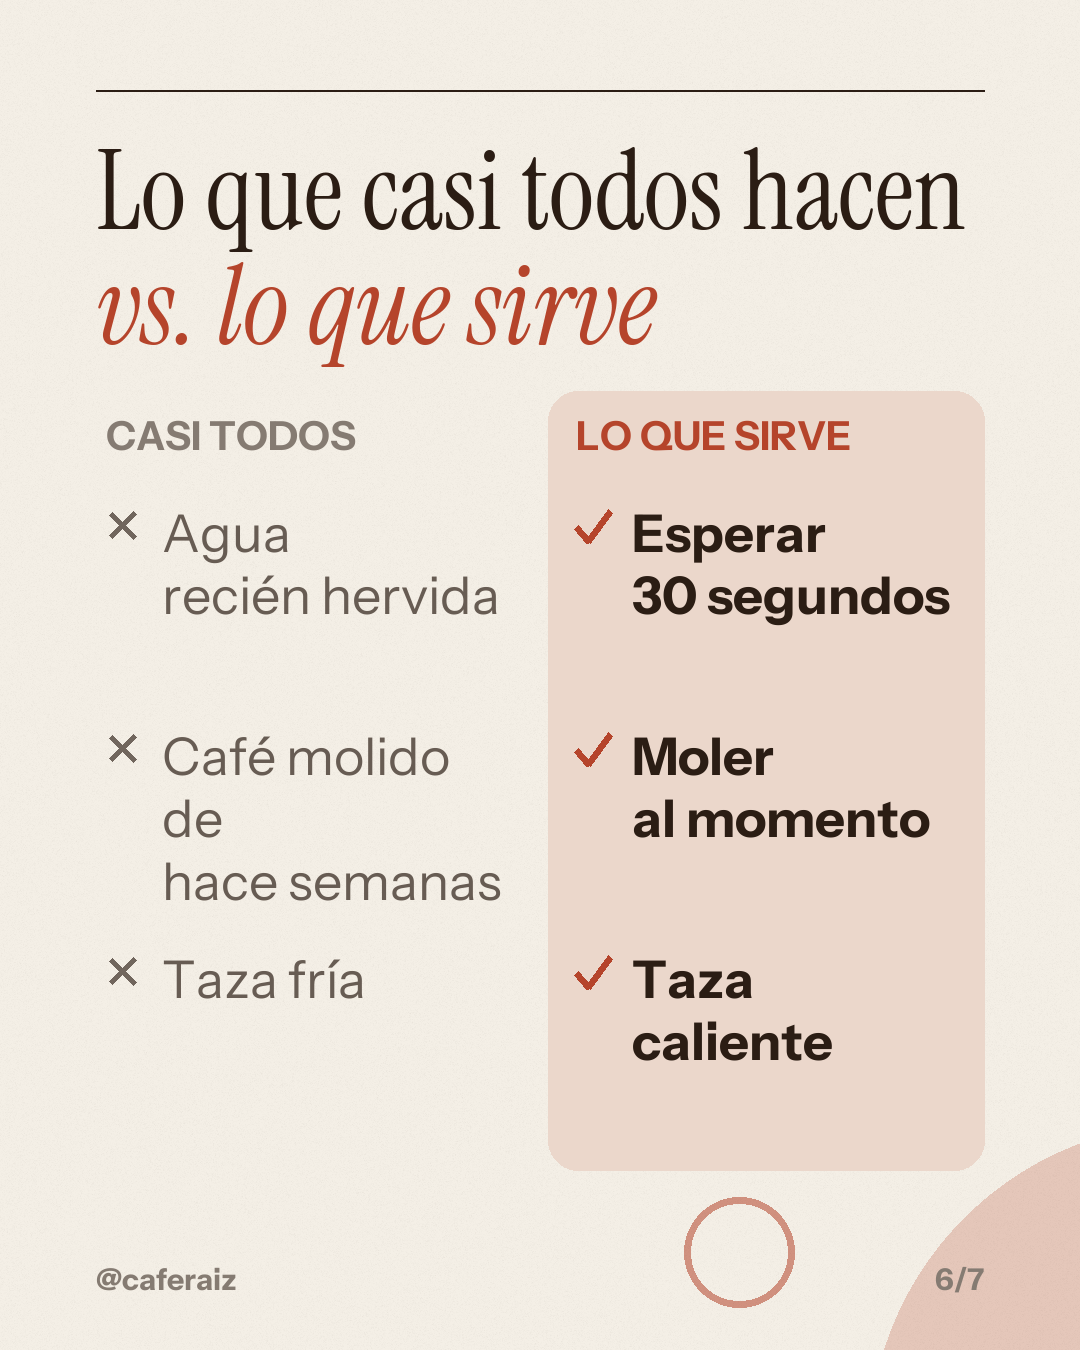
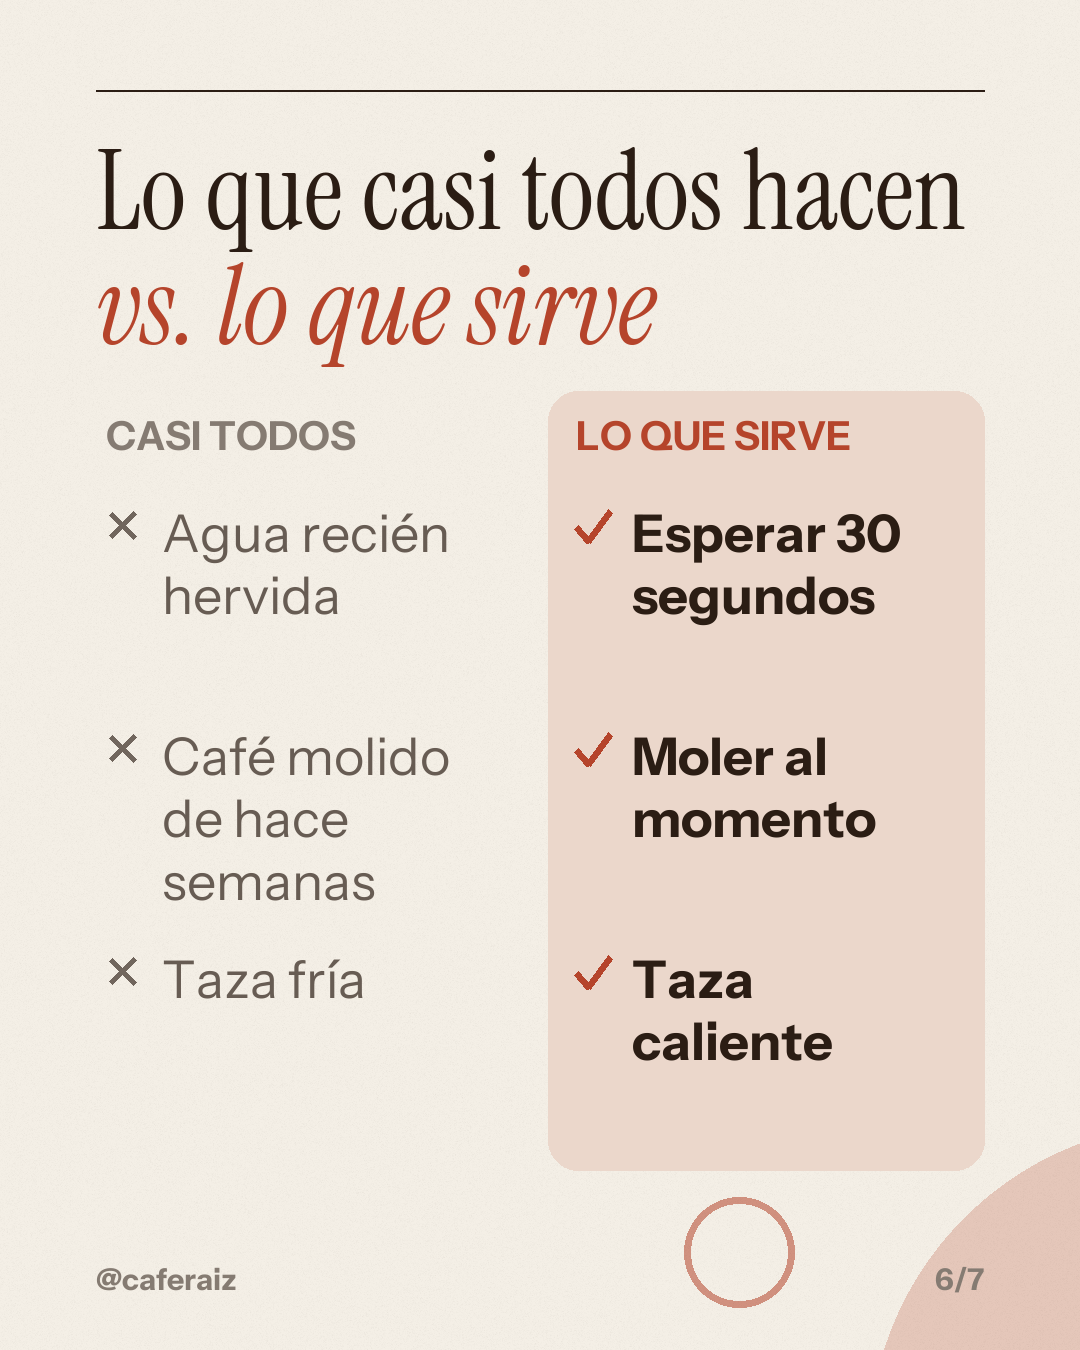
Palabras sueltas: no crear otra al arreglar una

diff --git a/scripts/carrusel.py b/scripts/carrusel.py
@@ -103,7 +103,8 @@ def lineas(texto, f, ancho):
             actual.append((pal, enf, peg and bool(actual)))
             w_act += (esp if len(actual) > 1 and not peg else 0) + w
         # sin palabra suelta en el último renglón ("…al día / 1"): se baja una palabra del renglón de arriba
-        if res and len(actual) == 1 and len(res[-1]) >= 2 and not actual[0][2]:
+        # (solo si el renglón de arriba se queda con 2 o más palabras: si no, se crea otra palabra suelta)
+        if res and len(actual) == 1 and len(res[-1]) >= 3 and not actual[0][2]:
             prueba = [res[-1][-1]] + actual
             if ancho_linea(prueba, f) <= ancho:
                 res[-1], actual = res[-1][:-1], prueba
